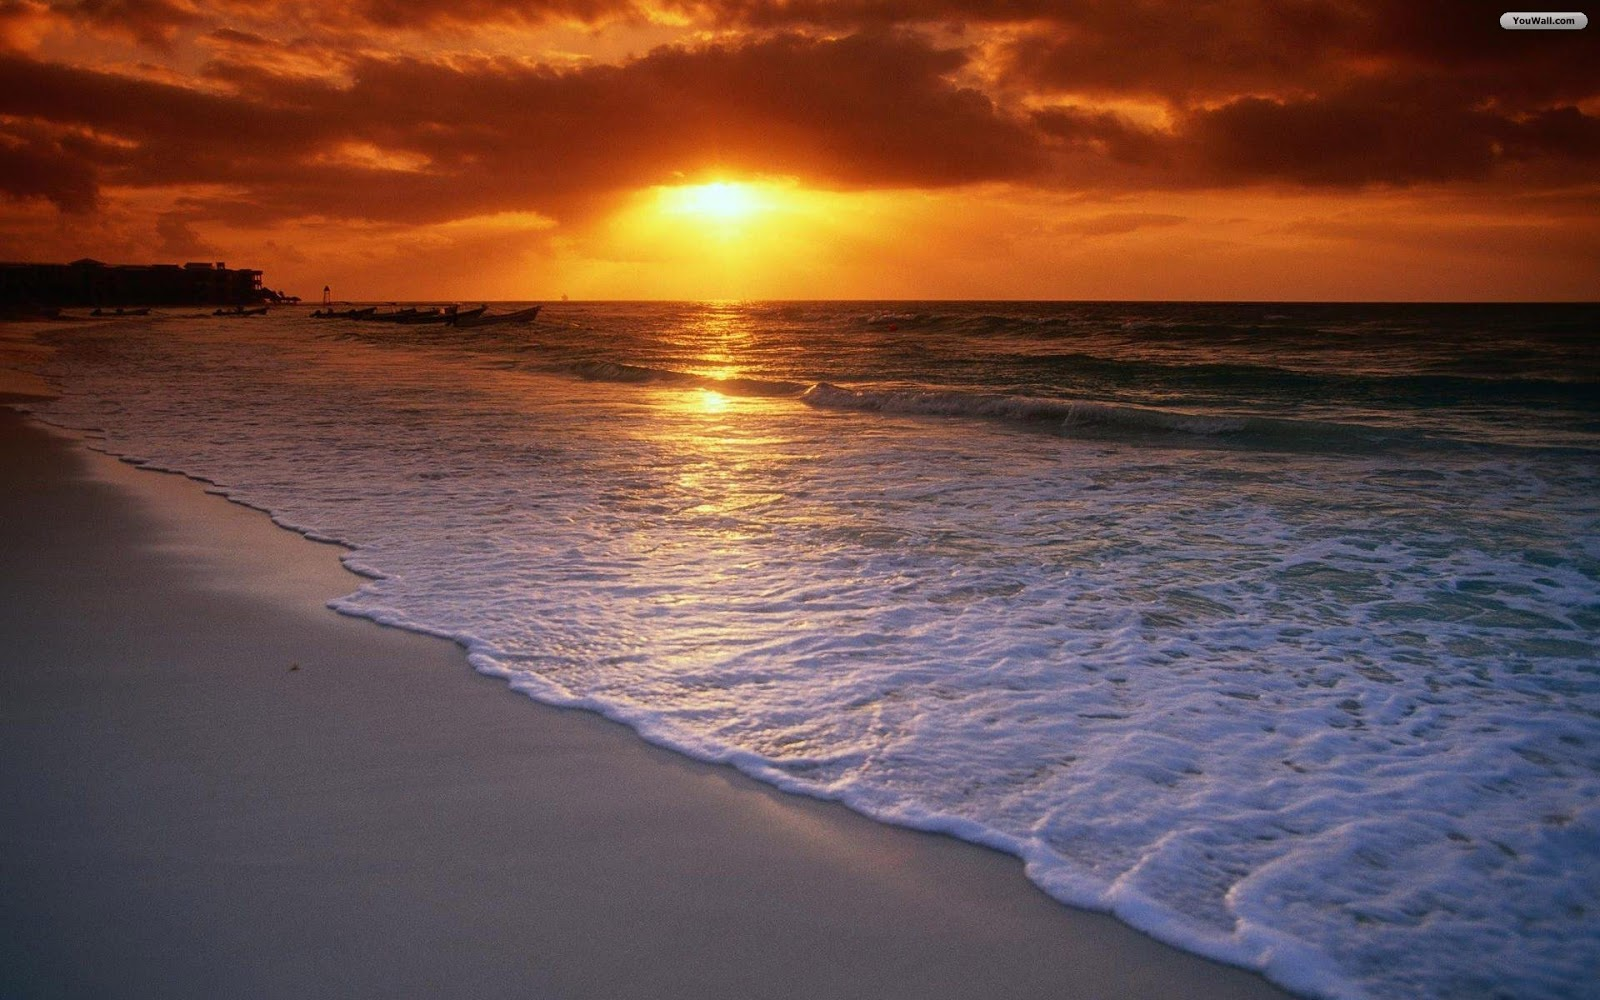
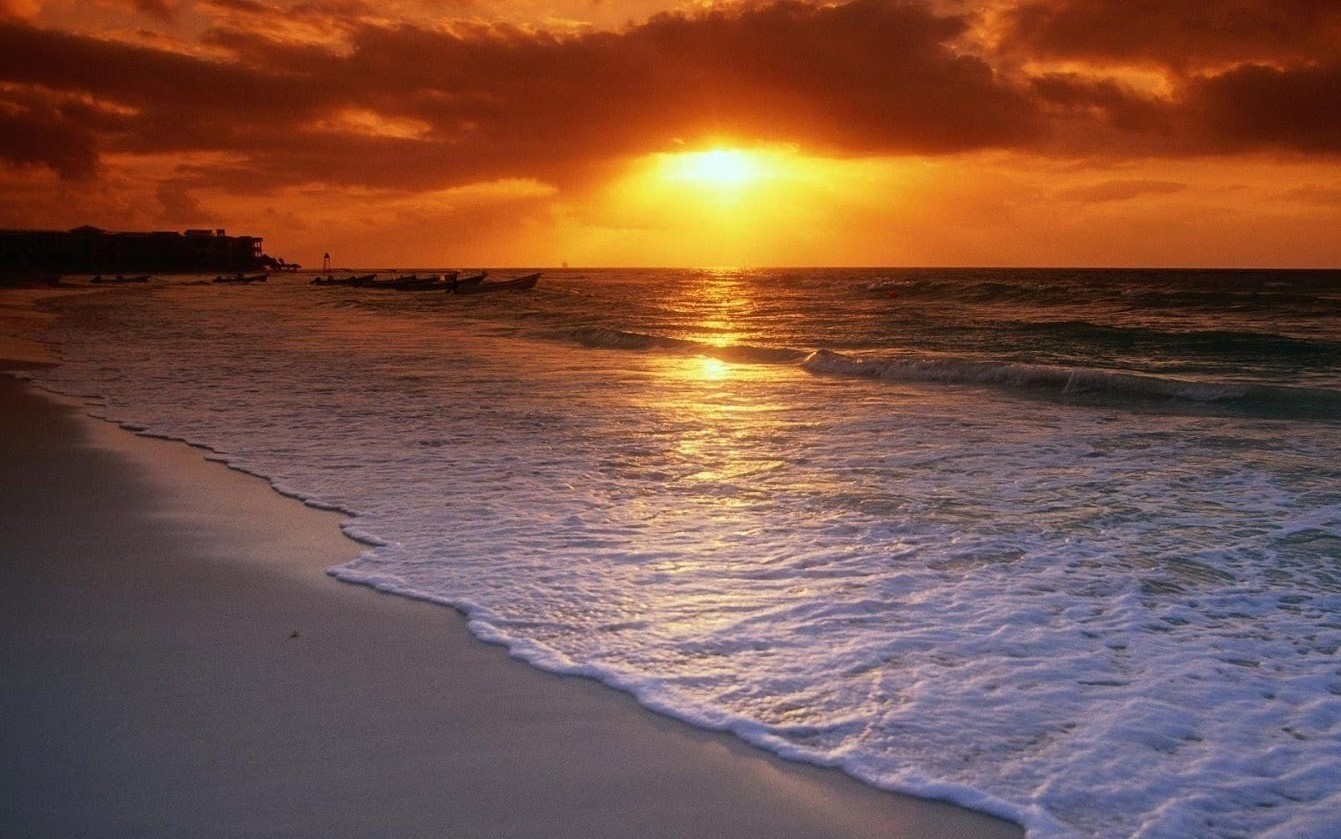
picc

diff --git a/index.html b/index.html
@@ -1,23 +1,27 @@
 <!DOCTYPE.html>
 <html>
 <head>
-
+  <div class="container-fluid">
   <title> TRAVELLAND</title>
   <link rel="stylesheet" type="text/css" href="index.css">
   <link href="css/bootstrap.css" rel="stylesheet">
   <meta name ="viewport" content= "width=device-width,initial-scale=1.0">
+</div>
 </head>
 <body>
-
-  <img src="logo.png" alt="TRAVELLAND logo" style= "width: 100px; height:100px;">
+  <div class="container-fluid">
+    <img src="logo.png" alt="TRAVELLAND logo" style= "width: 100px; height:100px;">
     <div id='home'<em>  <h1> TRAVELLAND</h1> </em>
       <ul class='nav'>
         <li><a href="file:///C:/Users/girlscodefirst/Documents/GitHub/project-around-the-world/index.html#home">HOME</a></li>
         <li><a href="C:\Users\girlscodefirst\Documents\GitHub\project-around-the-world\destination.html">DESTINATION</a></li>
         <li><a href= "C:\Users\girlscodefirst\Documents\GitHub\project-around-the-world\about.html">ABOUT US</a></li>
       </ul>
-  <div class="jumbotron">
-  <img src="beac.jpg" alt="picture of a beach">
-</div>
-    </body>
-    </html>
+      <div class="jumbotron">
+        <img src="beach.jpg" alt="picture of a beach">
+      </div>
+    </div>
+    </div>
+  </div>
+  </body>
+  </html>

diff --git a/index.css b/index.css
@@ -1,7 +1,6 @@
-ul li {
-  border: 1px solid;
+ul.nav li {
+  border: grooved;
   display:inline-block;
-  padding-right:110px;
   font-family:monospace;
   background-color: #80E5C6;
 }
@@ -11,4 +10,10 @@ h1{
   background-color: #6BC1CF;
   background-size: cover;
   font-family:monospace;
+}
+.jumbotron{
+  background-image:"beach.jpg";
+  background-size:cover;
+  background-attachment:fixed;
+  min-height:600px;
 }
